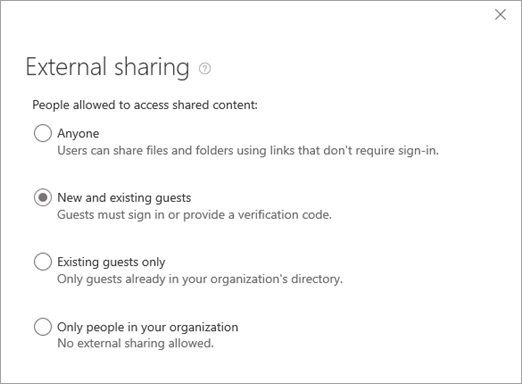
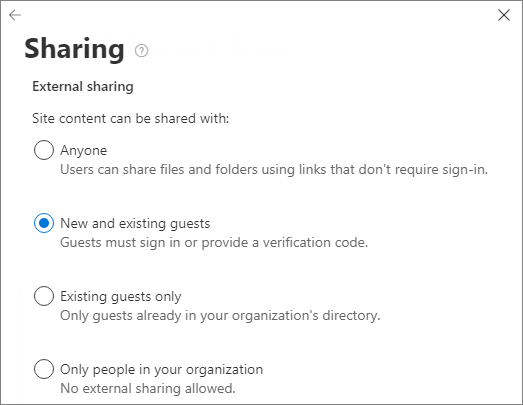
updates for site-level sharing panel

diff --git a/SharePoint/SharePointOnline/change-default-sharing-link.md b/SharePoint/SharePointOnline/change-default-sharing-link.md
@@ -43,31 +43,27 @@ As a global or SharePoint admin, you may want to enable users to send "Anyone" l
 For info about the changing this setting at the organization level, see [File and folder links](turn-external-sharing-on-or-off.md#file-and-folder-links).
 
   
-## Change the default link type for a classic site (site-level setting)
+## Change the default link type for a site
 
-1. Sign in to https://admin.microsoft.com as a global or SharePoint admin to open the Microsoft 365 admin center. (If you see a message that you don't have permission to access the page, you don't have Office 365 administrator permissions in your organization.)
+1. Sign in to https://admin.microsoft.com as a global or SharePoint admin. (If you see a message that you don't have permission to access the page, you don't have Office 365 administrator permissions in your organization.)
     
     > [!NOTE]
-    > If you have Office 365 Germany, sign in at https://portal.office.de. If you have Office 365 operated by 21Vianet (China), sign in at https://login.partner.microsoftonline.cn/. Then select the **Admin** tile to open the admin center.  
+    > If you have Office 365 Germany, sign in at https://portal.office.de. If you have Office 365 operated by 21Vianet (China), sign in at https://login.partner.microsoftonline.cn/. Then select the Admin tile to open the admin center.  
     
-2. In the left pane of the admin center, under **Admin centers**, select **SharePoint**. (You might need to select **Show all** to see the list of admin centers.).
- 
-3. In the left pane of the SharePoint admin center, select **More features**.
+2. In the left pane, under **Admin centers**, select **SharePoint**. (You might need to select **Show all** to see the list of admin centers.) 
 
-4. Under **Classic site collections page**, select **Open**.
+3. In the left pane of the new SharePoint admin center, under **Sites** select **Active sites**.
     
-5. Select the site that you want to change, and then select **Sharing**.
-    
-6. Under **Default link type**, clear the **Respect default organization setting** check box, and then choose the option you want to show by default when a user gets a link. 
-    
-    ![Screenshot of default link type settings for a site](media/348a8751-421c-4591-9b6b-6d1d381521cd.png)
-  
-7. Under **Default link permission**, clear the **Respect default organization setting** check box, and then choose whether you want the default permission to be view or edit. 
-    
-    ![Screenshot of default link permissions setting for a site](media/6e585416-019e-4c14-a057-0fd7e7b3e1f6.png)
-  
-8. Select **Save**.
+4. Click the site name, and then select the **Policies** tab.
+
+5. Under **External sharing**, select **Edit**.
+     
+6. Under **Default sharing link type**, clear the **Same as organization-level setting** check box.
+
+    ![Screenshot of site-level default sharing link settings](media/default-sharing-link-type-site.png)
+
+7. Choose the default sharing link setting that you want to use for this site, and then click **Save**.
     
 ## See also
 
-[Use shorter links when sharing files and folders](https://docs.microsoft.com/sharepoint/dev/spfx/shorter-share-link-format)
+[Turn external sharing on or off for a site](change-external-sharing-site.md)

diff --git a/SharePoint/SharePointOnline/change-external-sharing-site.md b/SharePoint/SharePointOnline/change-external-sharing-site.md
@@ -25,6 +25,8 @@ You must be a global or SharePoint admin in Office 365 to change the external sh
 Note that this procedure applies to classic sites, communication sites, and new team sites. To learn how to change the external sharing setting for a user's OneDrive, see [Change the external sharing setting for a user's OneDrive](/onedrive/user-external-sharing-settings). For info about changing your organization-level settings, see [Turn external sharing on or off for SharePoint](turn-external-sharing-on-or-off.md).
 
 For detailed information about how to set up guest access for a site, see [Collaborate with guests in a site](https://docs.microsoft.com/Office365/Enterprise/collaborate-in-a-site).
+
+To configure external sharing for a site
   
 1. Sign in to https://admin.microsoft.com as a global or SharePoint admin. (If you see a message that you don't have permission to access the page, you don't have Office 365 administrator permissions in your organization.)
     
@@ -33,16 +35,22 @@ For detailed information about how to set up guest access for a site, see [Colla
     
 2. In the left pane, under **Admin centers**, select **SharePoint**. (You might need to select **Show all** to see the list of admin centers.) 
 
-3. If the classic SharePoint admin center appears, select **Open it now** at the top of the page to open the new SharePoint admin center.
+3. In the left pane of the new SharePoint admin center, under **Sites** select **Active sites**.
     
-4. In the left pane of the new SharePoint admin center, under **Sites** select **Active sites**.
-    
-5. Select the site, and then select **Sharing**.
+4. Click the site name, and then select the **Policies** tab.
+
+5. Under **External sharing**, select **Edit**.
+     
+6. Select an external sharing option (see the following table).
 
     ![Changing the external sharing setting for a site](media/external-sharing-site.png)
-     
-6. Select an external sharing option (see the following table), and select **Save**.
-    
+
+7. If you want to limit the sharing of this site by domain, select the **Limit sharing by domain** check box and add the domains that you want to allow or block.
+
+8. If you want to change the default sharing link type, permissions, or expiration setting for this site, clear the **Same as organization-level setting** check box and set the value that you want to use for this site.
+
+9. Click **Save**.
+   
 ### Which option to select...
 
 |**Select this option:**|**If you want to:**|
